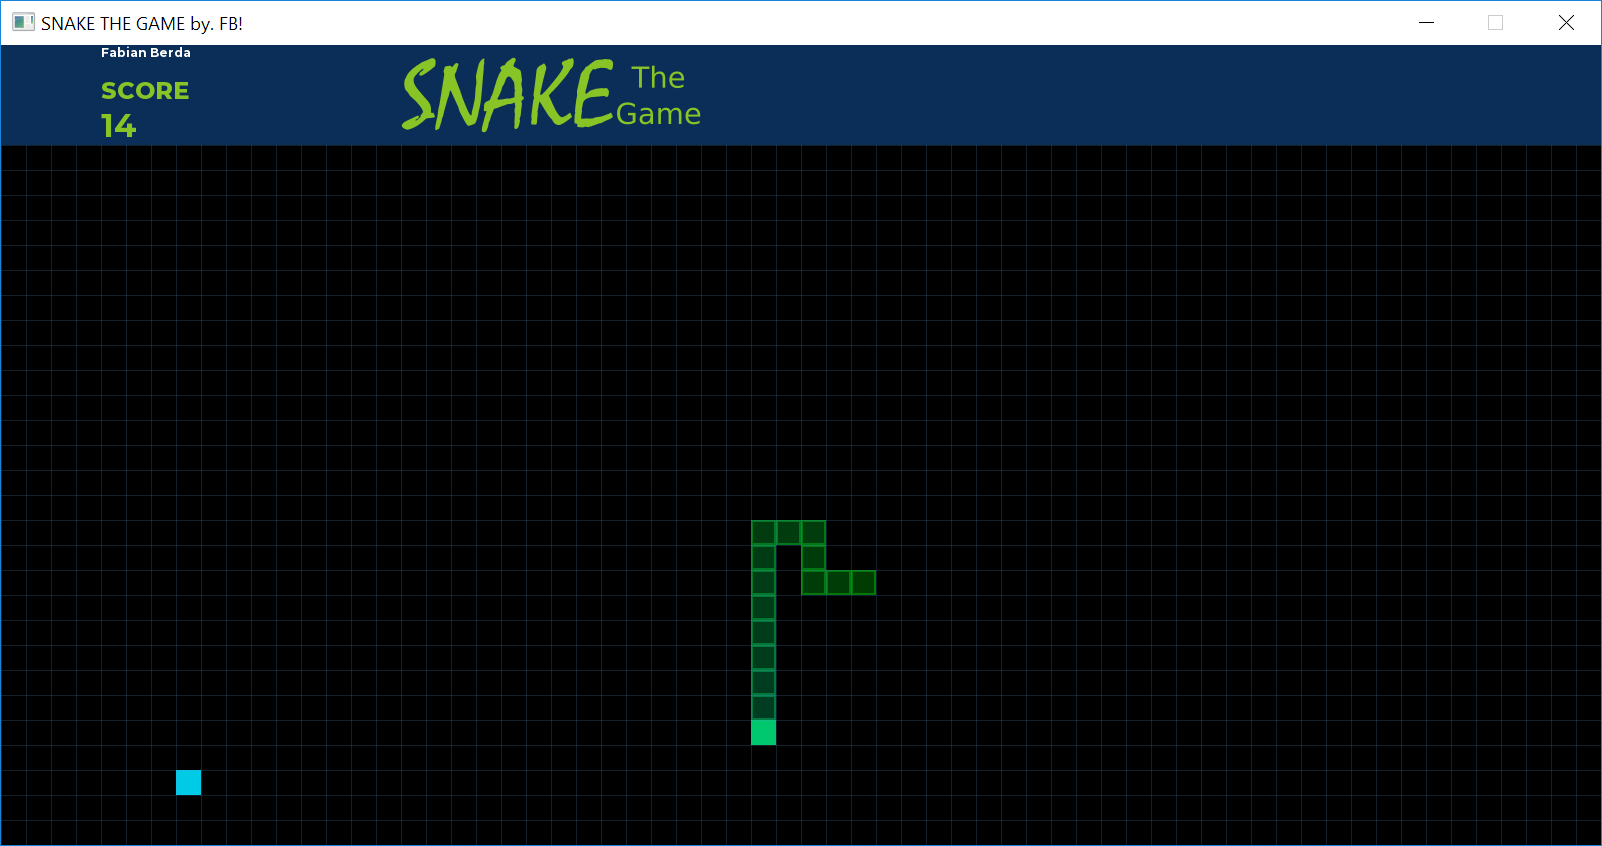
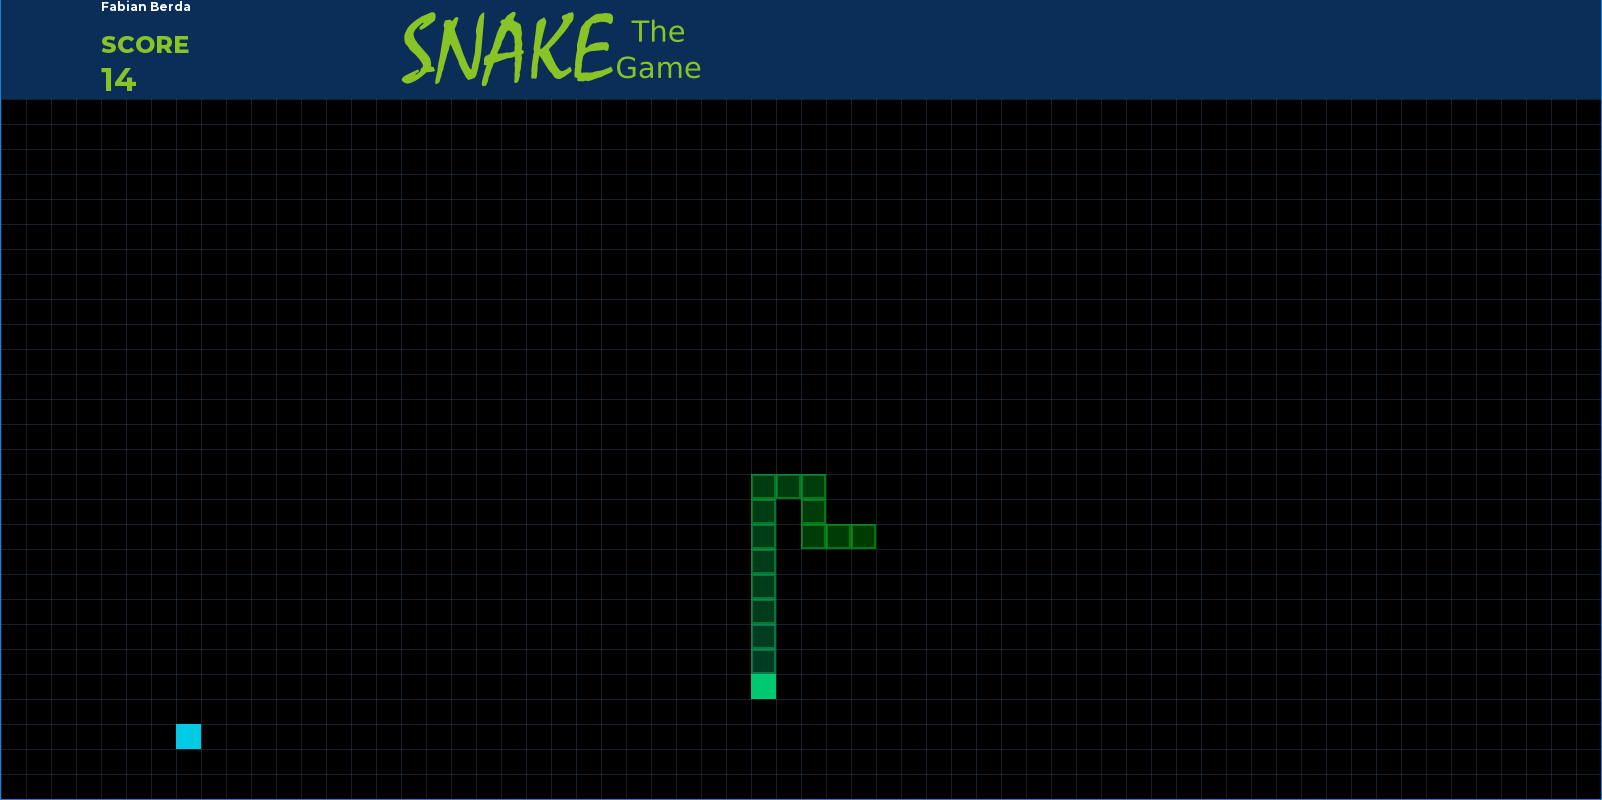
Poprawa obrazow z rozgrywki

Changed region(s): [[0.0, 0.0, 1.0, 0.1875], [0.4682, 0.5938, 0.5618, 0.9062], [0.0936, 0.9062, 0.1248, 0.9688]]

diff --git a/ColorSnake/SnakeProjectGame/Settings.h b/ColorSnake/SnakeProjectGame/Settings.h
@@ -1,6 +1,6 @@
 #pragma once
 //tutaj zadeklarowane sa wszystkie ustawienia gry
-#define SCRNWIDTH 800
+#define SCRNWIDTH 1600
 #define SCRNHEIGT 800
 #define UI_HEIGHT 100
 #define SIZE 25
